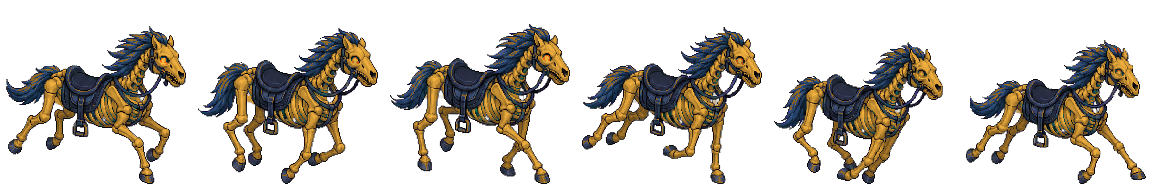
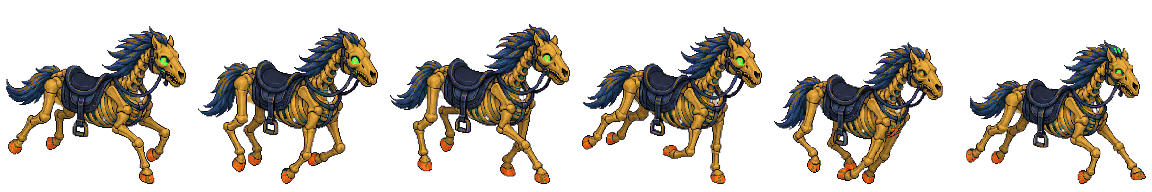
fix(demo64): recolor legendary eyes and horseshoes (#12)

diff --git a/public/demo64/game-original.js b/public/demo64/game-original.js
@@ -539,29 +539,12 @@
     const mkMount = () => this.add.sprite(0, 24 - 32 * K + 3, 'mt-marrom-standf', 2)
       .setScale(SCALE.player / 2).setVisible(false);
     const mountB = mkMount(), mountF = mkMount();
-    const mountEyeGlow = this.add.image(46, -49, 'fx-p-fire').setVisible(false)
-      .setBlendMode(Phaser.BlendModes.ADD).setTint(0xff7a18).setAlpha(0.82).setScale(0.1);
-    this.tweens.add({
-      targets: mountEyeGlow, alpha: 1, scale: 0.16,
-      duration: 420, ease: 'Sine.easeInOut', yoyo: true, repeat: -1,
-    });
-    const magmaHooves = [[-49, 25], [-20, 27], [25, 27], [52, 25]].map(([x, y], i) => {
-      const glow = this.add.image(x, y, 'fx-p-fire').setVisible(false)
-        .setBlendMode(Phaser.BlendModes.ADD)
-        .setTint(i % 2 ? 0xffb020 : 0xff5418).setAlpha(0.76).setScale(0.12);
-      this.tweens.add({
-        targets: glow, alpha: 1, scale: 0.2, y: y - 2,
-        delay: i * 90, duration: 380 + i * 35,
-        ease: 'Sine.easeInOut', yoyo: true, repeat: -1,
-      });
-      return glow;
-    });
     // "pezinho do lado de cá" — perna dobrada dedicada (só montarias IA, vistas e/w),
     // desenhada NA FRENTE da montaria e ATRÁS do tronco do cavaleiro
     const legSpr = this.add.sprite(0, 24, 'mount-leg').setOrigin(0.5, 0).setScale(SCALE.player / 2).setVisible(false);
     const aiSpr = this.aiSpr = this.add.sprite(0, 24, 'aihero-idle', 2)
       .setOrigin(0.5, 0.93).setVisible(false);
-    doll.add([mountB, legSpr, ...Object.values(layers), aiSpr, mountF, ...magmaHooves, mountEyeGlow]);
+    doll.add([mountB, legSpr, ...Object.values(layers), aiSpr, mountF]);
     for (const [d, r] of Object.entries(ROWS)) {
       this.anims.create({ key: 'aihero-walk-' + d, frameRate: 11, repeat: -1,
         frames: this.anims.generateFrameNumbers('aihero-walk', { start: r * 6, end: r * 6 + 5 }) });
@@ -627,13 +610,6 @@
     const renderMounted = (state, d4, row) => {
       const ai = AI_MOUNTS[P.mount];
       const cycle = state === 'walk' ? (ai ? 'walk' : 'gallop') : 'stand';
-      mountEyeGlow.setVisible(P.mount === 'skeletal_horse_gold');
-      magmaHooves.forEach(glow => glow.setVisible(P.mount === 'skeletal_horse_gold'));
-      if (mountEyeGlow.visible) {
-        mountEyeGlow.setPosition(d4 === 'w' ? -46 : 46, -49).setFlipX(d4 === 'w');
-        magmaHooves.forEach(glow => doll.bringToTop(glow));
-        doll.bringToTop(mountEyeGlow);
-      }
       if (ai) { // camada única em escala nativa, atrás do cavaleiro
         mountF.setVisible(false);
         const mountRow = ai.singleRow ? 0 : row;
@@ -908,8 +884,6 @@
     const setMount = (m) => {
       P.mount = m;
       ridePose = null;
-      mountEyeGlow.setVisible(m === 'skeletal_horse_gold');
-      magmaHooves.forEach(glow => glow.setVisible(m === 'skeletal_horse_gold'));
       this.player.speed = m ? (AI_MOUNTS[m] ? AI_MOUNTS[m].speed : 260) : 165; // galope/trote
       this.player.radius = m ? 16 : 12;
       if (!m) {
@@ -1413,7 +1387,7 @@
     // rastro espectral no galope (skill 2 — clona o frame corrente, qualquer montaria)
     if (this.P.mount && this.player.moving && time - (this._ghostT || 0) > 95) {
       this._ghostT = time;
-      this.fxGhost();
+      this.fxGhost(this.P.mount === 'skeletal_horse_gold' ? 0xff7a20 : undefined);
     }
     this.player.update(keyboardVec(this.keys) || this.joy.vec, delta);
     this.mobs.forEach(m => { if (!m.walker.__dead) m.update(delta); });

diff --git a/public/demo64/game.js b/public/demo64/game.js
@@ -1,7 +1,7 @@
 /* GameRPG loader */
 (function () {
   const script = document.createElement('script');
-  script.src = './game-original.js?v=lord-mas-v4';
+  script.src = './game-original.js?v=lord-mas-v5';
   script.onerror = () => console.error('[GameRPG] Falha ao carregar o jogo principal.');
   document.head.appendChild(script);
 })();

diff --git a/public/demo64/index.html b/public/demo64/index.html
@@ -538,6 +538,6 @@ addEventListener('keydown', e => {
   sync();
 })();
 </script>
-<script src="game.js?v=lord-mas-v4"></script>
+<script src="game.js?v=lord-mas-v5"></script>
 </body>
 </html>
